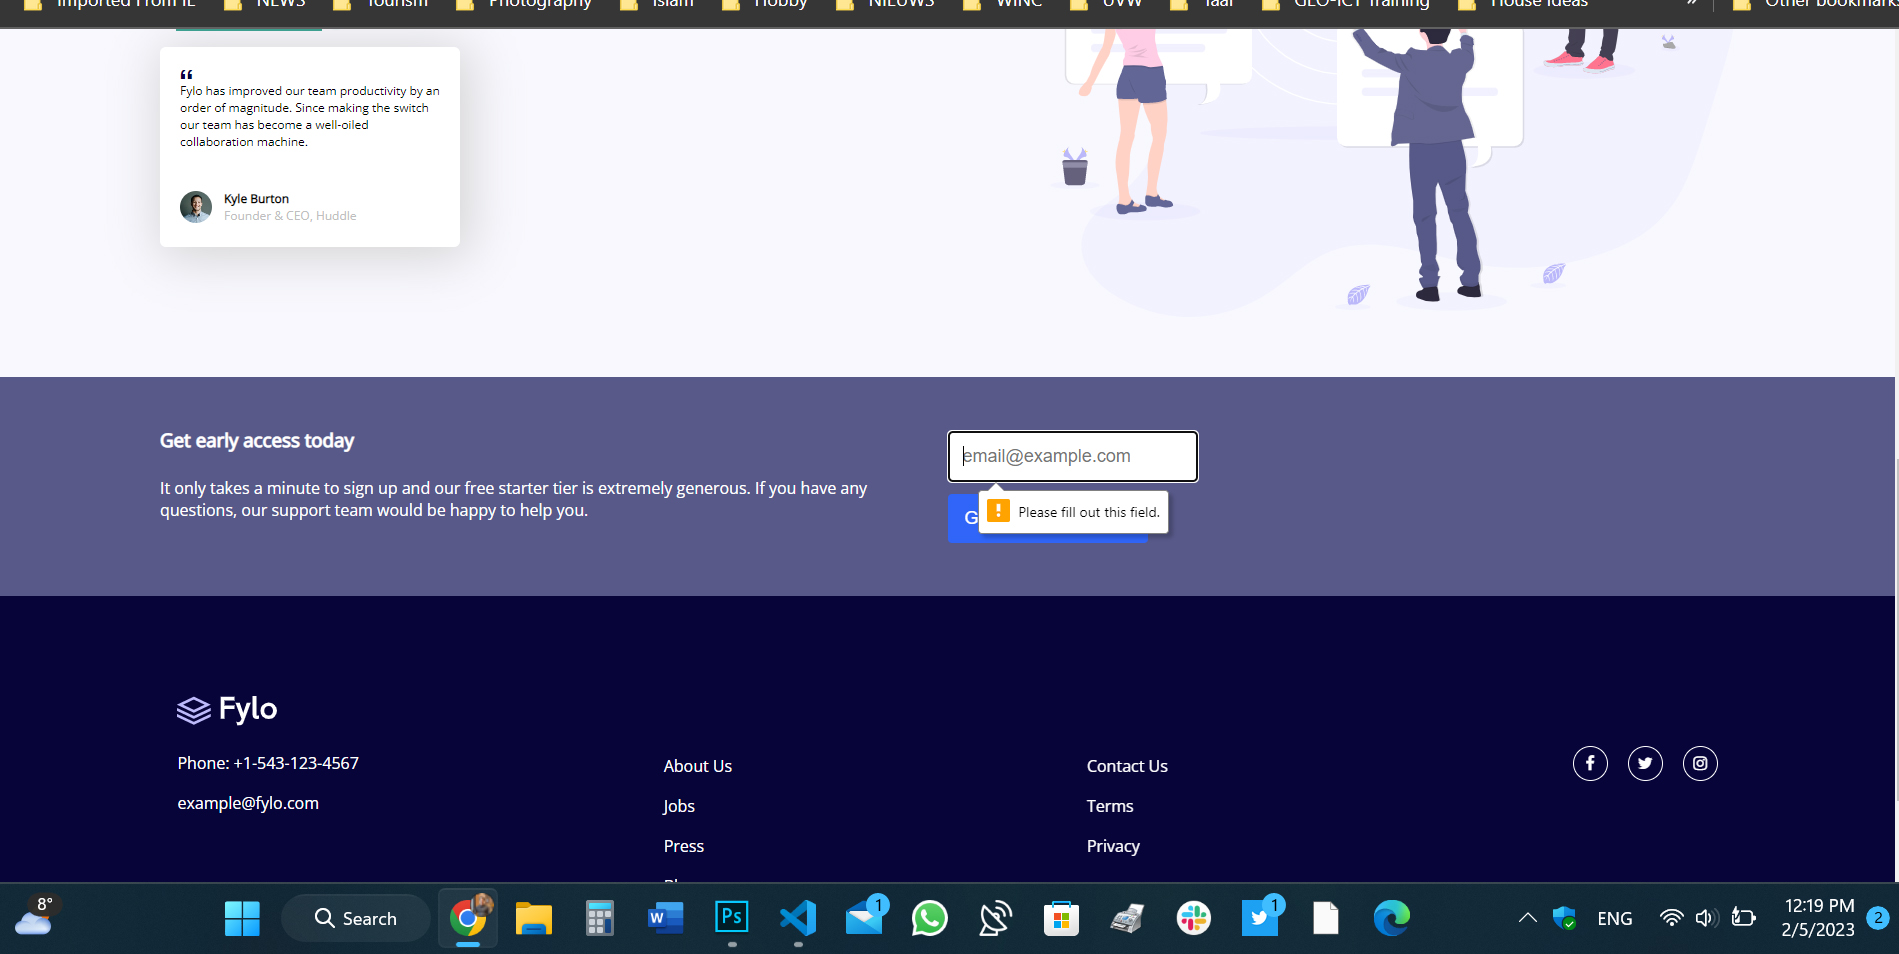
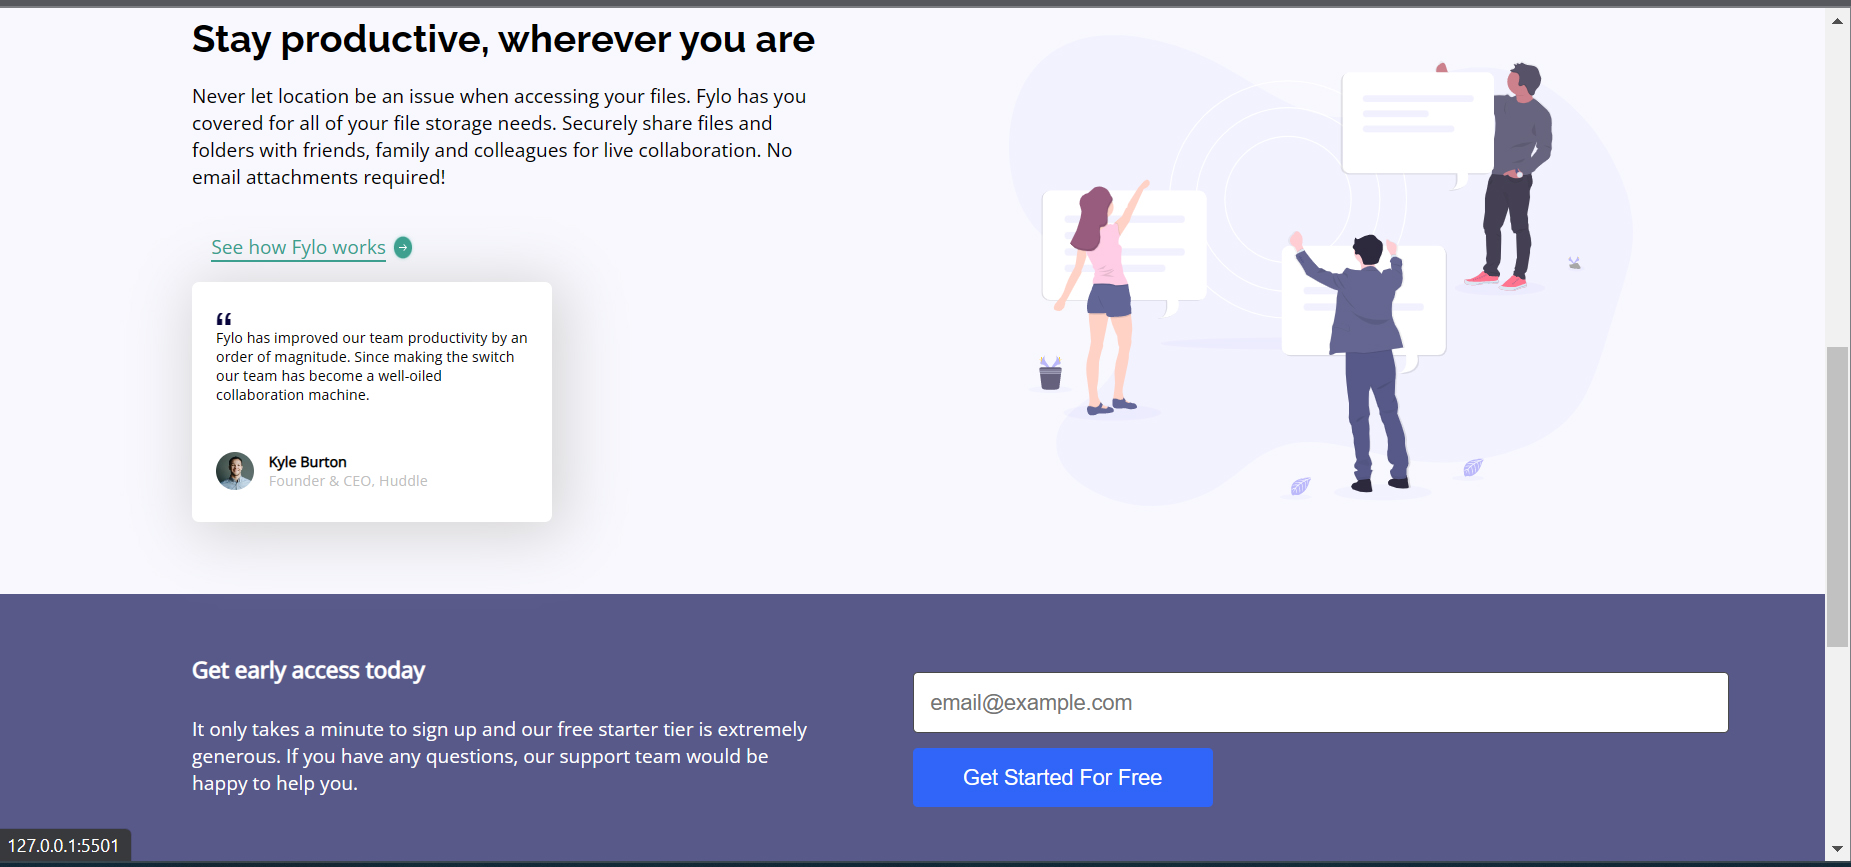
screenshot and changing in input and button

diff --git a/css/style.css b/css/style.css
@@ -14,7 +14,7 @@ body {
 header {
   display: flex;
   justify-content: space-between;
-  padding: 40px 100px;
+  padding: 100px;
 }
 header img {
   width: 5rem;
@@ -51,27 +51,23 @@ h1 {
 .sub-main-secure-files p {
   padding: 20px 0;
 }
-.form-secure {
-  max-width: 100%;
-}
-input[type="email"] {
+.form-secure > input {
+  max-width: 250px;
   font-size: 18px;
   padding: 14px;
-  font-size: 18px;
-  width: 250px;
-  margin-right: 12px;
+  margin-right: 8px;
   border-radius: 4px;
   border: 1px solid rgb(73, 73, 73);
 }
 
-button {
+.form-secure > button {
   background-color: var(--right-blue);
   color: white;
   padding: 14px;
   border: none;
   font-size: 18px;
   border-radius: 4px;
-  /* width: 200px; */
+  width: 250px;
 }
 button:hover {
   color: black;
@@ -110,8 +106,11 @@ figure img {
 .flyo-works img {
   width: 20px;
 }
+
 .flyo-works a {
   text-decoration: none;
+}
+.flyo-works a:hover {
   margin-right: 4px;
   color: var(--moderate-cyan);
   border-bottom: 2px solid var(--moderate-cyan);
@@ -169,10 +168,10 @@ figure img {
 .sub-get-early-access p {
   padding: 25px 0;
 }
-.access-input {
+/* .access-input {
   display: grid;
-  width: 400px;
-}
+  width: 300px;
+} */
 .access-btn {
   width: 200px;
 }
@@ -180,6 +179,22 @@ figure img {
   display: flex;
   flex-direction: column;
   gap: 12px;
+}
+.access-early-form > input {
+  font-size: 18px;
+  padding: 14px;
+  /* margin-right: 10px; */
+  border-radius: 4px;
+  border: 1px solid rgb(73, 73, 73);
+}
+.access-early-form > button {
+  background-color: var(--right-blue);
+  color: white;
+  padding: 14px;
+  border: none;
+  font-size: 18px;
+  border-radius: 4px;
+  width: 250px;
 }
 
 footer {

diff --git a/index.html b/index.html
@@ -19,7 +19,7 @@
   </head>
   <body>
     <header>
-      <img src="./images/logo.svg" alt="logo" />
+      <a href="/"> <img src="./images/logo.svg" alt="logo" /></a>
       <nav class="fylo-navigation">
         <ul class="nav-menu">
           <li><a href="/">Features</a></li>
@@ -44,7 +44,6 @@
               class="your-email"
               type="email"
               required
-              name="email"
               placeholder="Enter your email"
             />
             <button class="secure-btn">Get Started</button>
@@ -105,13 +104,8 @@
             </p>
           </div>
           <form class="access-early-form" action="/">
-            <input
-              type="email"
-              required
-              placeholder="email@example.com"
-              class="access-input"
-            />
-            <button class="access-btn">Get Started For Free</button>
+            <input type="email" required placeholder="email@example.com" />
+            <button>Get Started For Free</button>
           </form>
         </article>
       </section>
